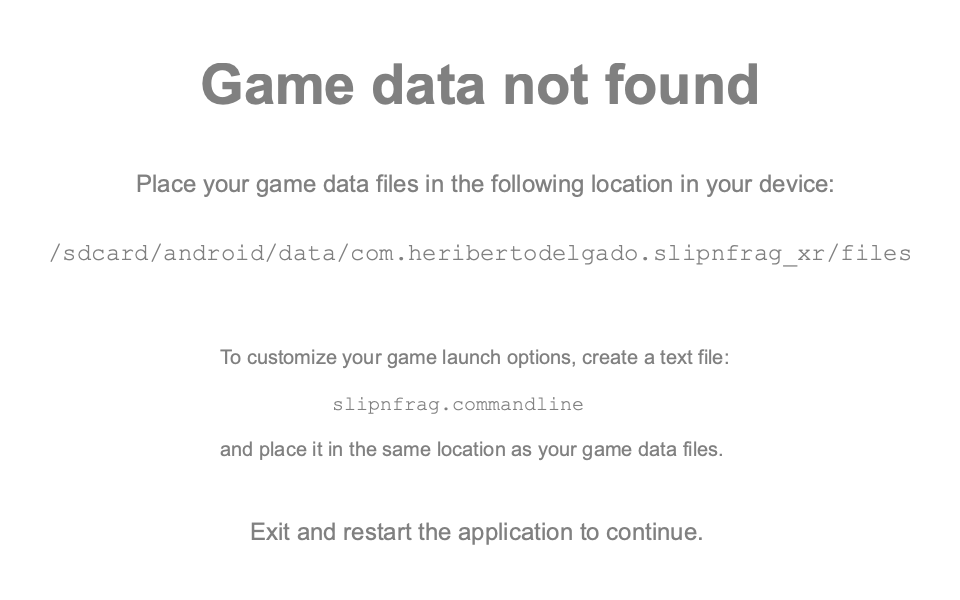
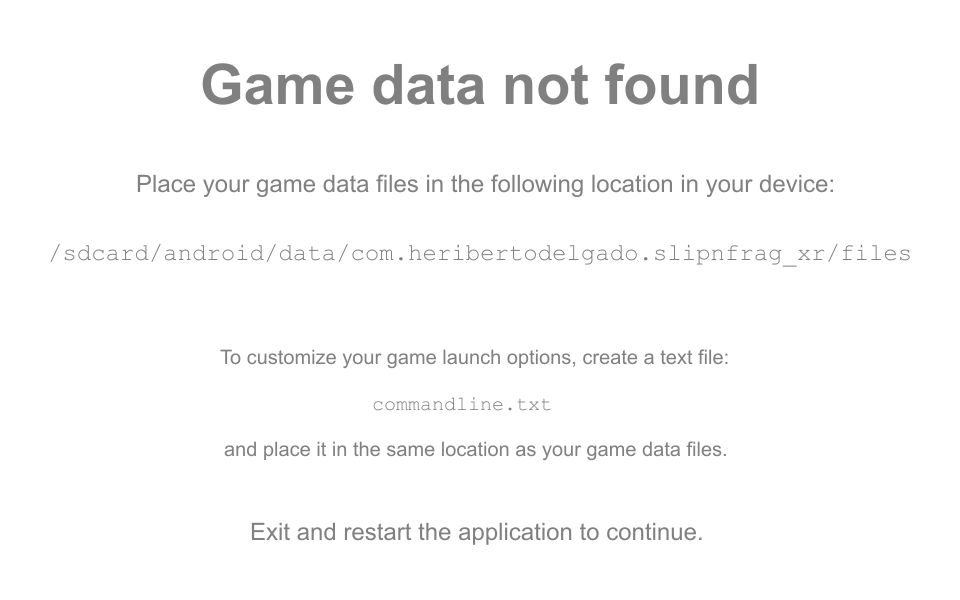
Command line arguments for the OXR version are now loaded through commandline.txt, in order to keep it a bit more compatible with other sourceports.

diff --git a/SlipNFrag-XR/app/src/main/cpp/main.cpp b/SlipNFrag-XR/app/src/main/cpp/main.cpp
@@ -1448,7 +1448,7 @@ void android_main(struct android_app* app)
 						arguments.emplace_back("-basedir");
 						arguments.emplace_back(basedir);
 						std::vector<unsigned char> commandline;
-						auto file = fopen((std::string(basedir) + "/slipnfrag.commandline").c_str(), "rb");
+						auto file = fopen((std::string(basedir) + "/commandline.txt").c_str(), "rb");
 						if (file != nullptr)
 						{
 							fseek(file, 0, SEEK_END);
@@ -1462,13 +1462,19 @@ void android_main(struct android_app* app)
 							fclose(file);
 						}
 						arguments.emplace_back();
+						auto word_count = 0;
 						for (auto c : commandline)
 						{
 							if (c <= ' ')
 							{
-								if (!arguments[arguments.size() - 1].empty())
+								if (word_count == 0 && Q_strcasecmp(arguments[arguments.size() - 1].c_str(), "quake") == 0)
+								{
+									arguments[arguments.size() - 1].clear();
+								}
+								else if (!arguments[arguments.size() - 1].empty())
 								{
 									arguments.emplace_back();
+									word_count++;
 								}
 							}
 							else
